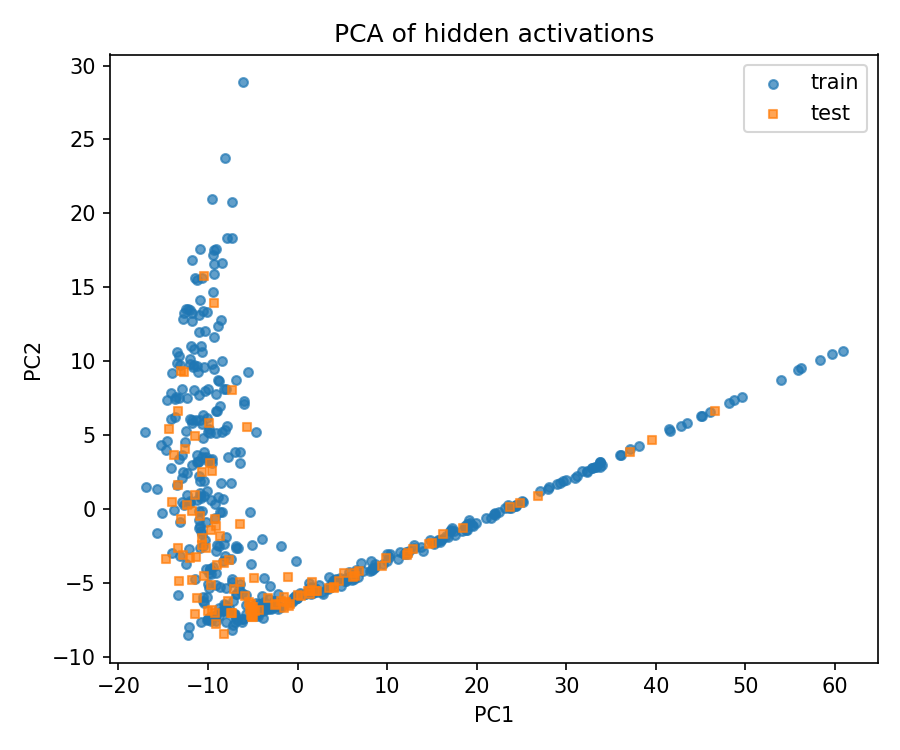
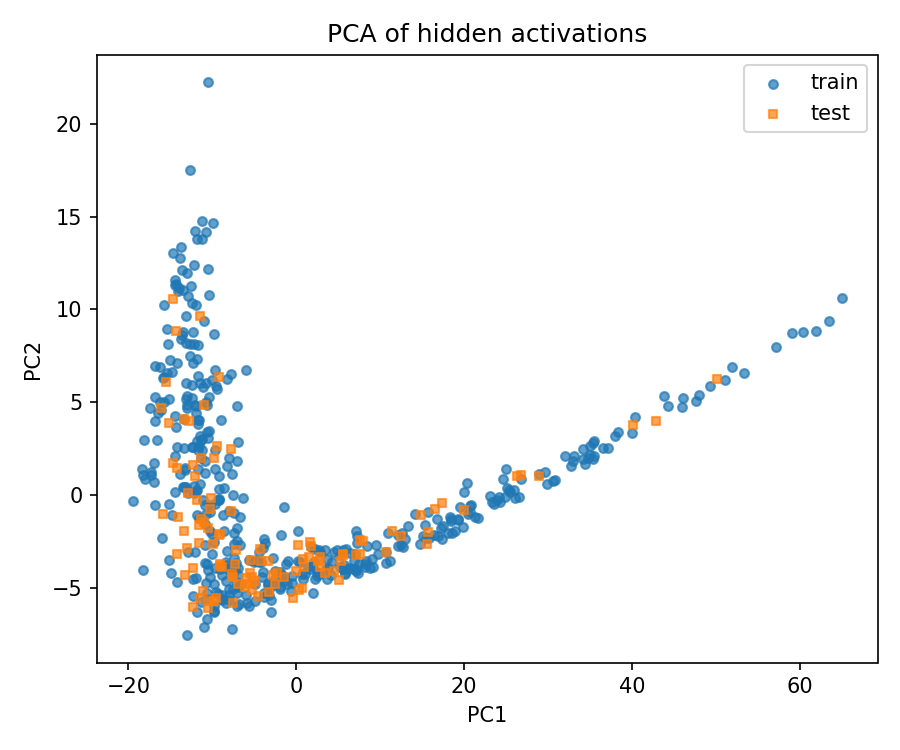
added correlation heatmap

diff --git a/lstm_tf.py b/lstm_tf.py
@@ -378,6 +378,7 @@ from tensorflow.keras.callbacks import EarlyStopping
 
 
 lstm_model = tf.keras.models.Sequential([
+    # Shape [batch, time, features] => [batch, time, lstm_units]
     tf.keras.layers.LSTM(32, return_sequences=True,
     kernel_regularizer=tf.keras.regularizers.l2(1e-5),
     recurrent_regularizer=tf.keras.regularizers.l2(1e-5)),
@@ -402,6 +403,9 @@ IPython.display.clear_output()
 val_performance['LSTM'] = lstm_model.evaluate(six_step_window.val, return_dict=True)
 performance['LSTM'] = lstm_model.evaluate(six_step_window.test, verbose=0, return_dict=True)
 
+print("\nLSTM Validation MAE:", val_performance['LSTM']['mean_absolute_error'])
+print("LSTM Test MAE:", performance['LSTM']['mean_absolute_error'])
+
 six_step_window.plot(lstm_model)
 
 # Include training and val loss graphs -------------
@@ -420,6 +424,7 @@ def plot_loss(history, model_name):
 
 plot_loss(history, 'LSTM Model')
 
+
 cm = lstm_model.metrics[1]
 cm.metrics
 
@@ -437,3 +442,8 @@ plt.bar(x + 0.17, test_mae, width, label='Test')
 plt.xticks(ticks=x, labels=performance.keys(),
            rotation=45)
 _ = plt.legend()
+
+plt.figure(figsize=(12,8))
+sns.heatmap(df.corr(), annot=False, cmap='coolwarm')
+plt.title("Correlation Heatmap of Normalized Features")
+plt.show()
